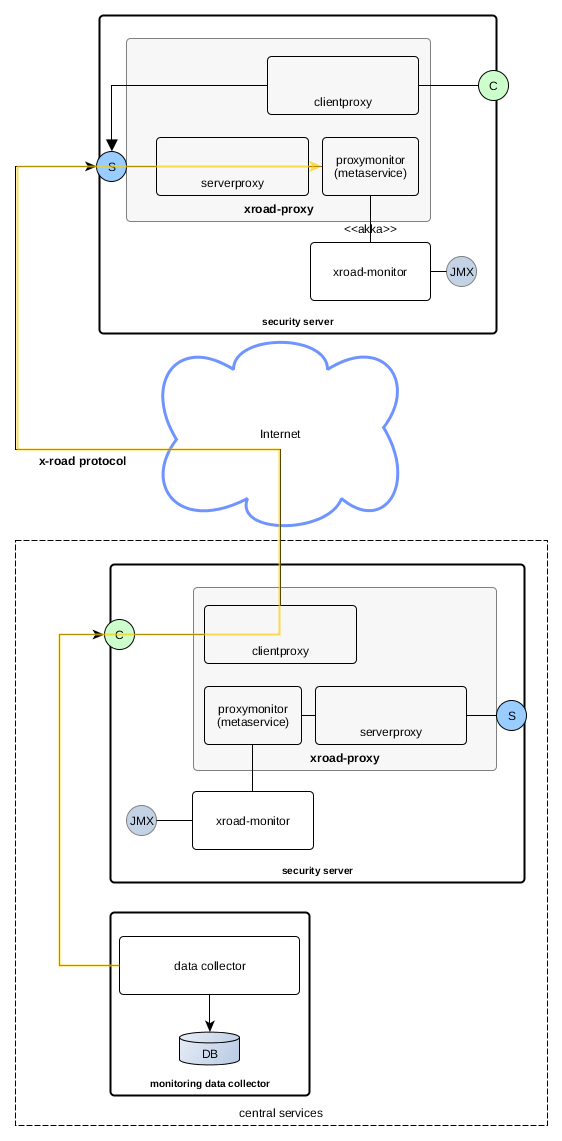
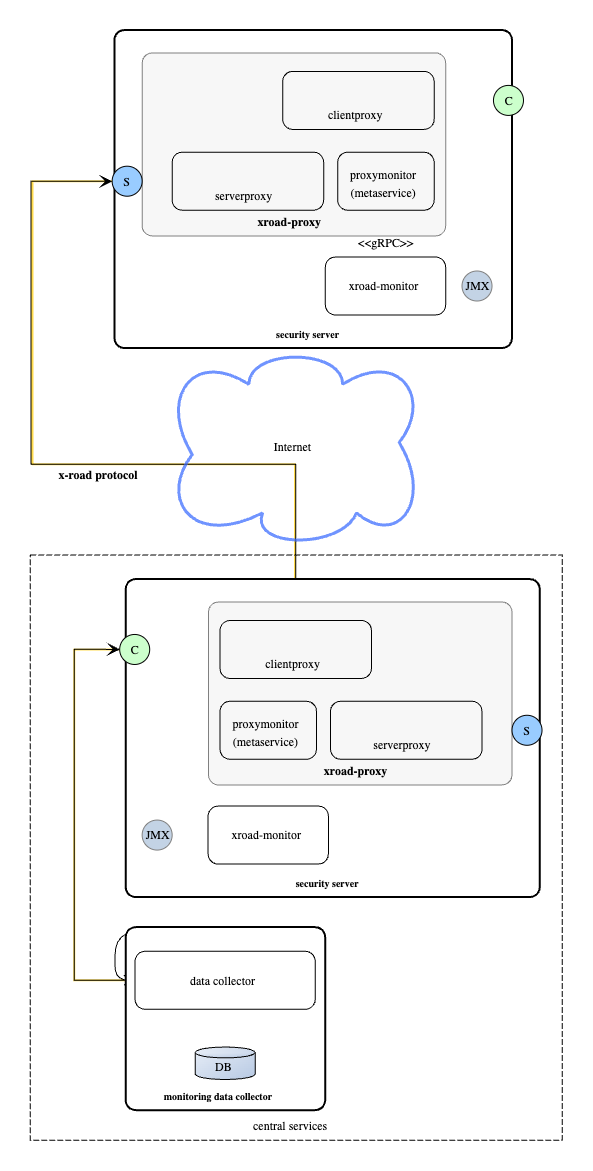
chore: remove akka references from documentation

diff --git a/doc/Architecture/arc-tec_x-road_technologies.md b/doc/Architecture/arc-tec_x-road_technologies.md
@@ -2,7 +2,7 @@
 
 **Technical Specification**
 
-Version: 1.9<br/>
+Version: 1.10
 08.06.2023
 <!-- 3 pages -->
 Doc. ID: ARC-TEC
@@ -11,18 +11,19 @@ Doc. ID: ARC-TEC
 
 ## Version history
 
-| Date       | Version | Description                                            | Author           |
-|------------|---------|--------------------------------------------------------|------------------|
-| 02.02.2018 | 1.0     | Initial version                                        | Antti Luoma      |
-| 02.03.2018 | 1.1     | Added uniform terms and conditions reference           | Tatu Repo        |
-| 17.04.2019 | 1.2     | Added RHEL7, Ubuntu 18.04, systemd and Postgres 10     | Petteri Kivimäki |
-| 11.09.2019 | 1.3     | Remove Ubuntu 14.04 support                            | Jarkko Hyöty     |
-| 12.05.2020 | 1.4     | Add link to X-Road core tech radar                     | Petteri Kivimäki |
-| 15.09.2020 | 1.5     | Updated to match Security Server REST API architecture | Janne Mattila    |
-| 02.06.2021 | 1.6     | Backup encryption related updates                      | Andres Allkivi   |
-| 07.09.2021 | 1.7     | Update technologies                                    | Ilkka Seppälä    |
-| 26.09.2022 | 1.8     | Remove Ubuntu 18.04 support                            | Andres Rosenthal |
-| 08.06.2023 | 1.9     | Central Server technologies update                     | Justas Samuolis  |
+| Date       | Version | Description                                            | Author            |
+|------------|---------|--------------------------------------------------------|-------------------|
+| 02.02.2018 | 1.0     | Initial version                                        | Antti Luoma       |
+| 02.03.2018 | 1.1     | Added uniform terms and conditions reference           | Tatu Repo         |
+| 17.04.2019 | 1.2     | Added RHEL7, Ubuntu 18.04, systemd and Postgres 10     | Petteri Kivimäki  |
+| 11.09.2019 | 1.3     | Remove Ubuntu 14.04 support                            | Jarkko Hyöty      |
+| 12.05.2020 | 1.4     | Add link to X-Road core tech radar                     | Petteri Kivimäki  |
+| 15.09.2020 | 1.5     | Updated to match Security Server REST API architecture | Janne Mattila     |
+| 02.06.2021 | 1.6     | Backup encryption related updates                      | Andres Allkivi    |
+| 07.09.2021 | 1.7     | Update technologies                                    | Ilkka Seppälä     |
+| 26.09.2022 | 1.8     | Remove Ubuntu 18.04 support                            | Andres Rosenthal  |
+| 08.06.2023 | 1.9     | Central Server technologies update                     | Justas Samuolis   |
+| 04.10.2023 | 1.10    | Remove Akka references                                 | Ričardas Bučiūnas |
 
 ## Table of Contents
 
@@ -80,7 +81,7 @@ Table 1. Technology matrix of the X-Road
 | Java 11                            |          X          |         X          |            X            |                 X                 |
 | C                                  |          X          |         X          |                         |                                   |
 | Logback                            |          X          |         X          |            X            |                 X                 |
-| Akka 2                             |          X          |         X          |            X            |                 X                 |
+| gRPC                               |          X          |         X          |            X            |                 X                 |
 | Jetty 9                            |  X\[[3](#Ref_3)\]   |  X\[[4](#Ref_4)\]  |                         |                                   |
 | Ubuntu 20.04                       |          X          |         X          |            X            |                 X                 |
 | Ubuntu 22.04                       |          X          |         X          |            X            |                 X                 |
@@ -128,7 +129,7 @@ Table 2. Technology matrix of the Central Server
 | Java 11                       |     X      |                    |                  X                  |              |                    |      X       |                     |            X             |
 | C                             |            |         X          |                                     |              |                    |              |                     |                          |
 | Logback                       |     X      |                    |                  X                  |              |                    |      X       |                     |            X             |
-| Akka 2                        |     X      |                    |                                     |              |                    |      X       |                     |                          |
+| gRPC                          |     X      |                    |                                     |              |                    |      X       |                     |                          |
 | Embedded Jetty 9              |            |                    |                  X                  |              |                    |              |                     |                          |
 | Embedded Tomcat 9             |            |                    |                                     |              |                    |      X       |                     |                          |
 | Spring Boot 2                 |            |                    |                  X                  |              |                    |      X       |                     |                          |
@@ -164,7 +165,7 @@ Table 3. Technology matrix of the configuration proxy
 |--------------------------|:--------------:|:---------------------------:|:----------:|:------------------------:|
 | Java 11                  |                |              X              |     X      |            X             |
 | Logback                  |                |              X              |     X      |            X             |
-| Akka 2                   |                |              X              |     X      |                          |
+| gRPC                     |                |              X              |     X      |                          |
 | nginx                    |       X        |                             |            |                          |
 | systemd                  |       X        |              X              |     X      |            X             |
 | PKCS \#11\[[2](#Ref_2)\] |                |                             |     X      |                          |
@@ -186,7 +187,7 @@ Table 4. Technology matrix of the Security Server
 | Java 11                      |     X      |     X     |                    |        X        |           X           |              |            X             |                             |      X       |      X      |                  X                   |                 X                 |                  X                  |
 | C                            |            |           |         X          |                 |                       |              |                          |                             |              |             |                                      |                                   |                                     |
 | Logback                      |     X      |     X     |                    |        X        |           X           |              |            X             |                             |      X       |             |                  X                   |                 X                 |                  X                  |
-| Akka 2                       |     X      |     X     |                    |        X        |                       |              |                          |                             |      X       |      X      |                  X                   |                 X                 |                                     |
+| gRPC                         |     X      |     X     |                    |        X        |                       |              |                          |                             |      X       |      X      |                  X                   |                 X                 |                                     |
 | Embedded Jetty 9             |            |     X     |                    |                 |                       |              |                          |                             |              |             |                                      |                                   |                                     |
 | Javascript                   |            |           |                    |                 |                       |              |                          |              X              |              |             |                                      |                                   |                                     |
 | PostgreSQL 9+\[[3](#Ref_3)\] |            |           |                    |                 |                       |      X       |                          |                             |      X       |             |                                      |                                   |                                     |
@@ -224,7 +225,7 @@ Table 5. Technology matrix of the operational monitoring daemon
 |:-----------------------------|:------------------------:|:---------------------:|:--------------------:|:------------------------:|
 | Java 11                      |            X             |           X           |          X           |            X             |
 | Logback                      |            X             |           X           |          X           |            X             |
-| Akka 2                       |            X             |           X           |                      |                          |
+| gRPC                         |            X             |           X           |                      |                          |
 | PostgreSQL 9+\[[1](#Ref_1)\] |            X             |           X           |                      |                          |
 | Liquibase 3                  |            X             |           X           |                      |                          |
 | Dropwizard Metrics 4         |            X             |           X           |                      |                          |

diff --git a/doc/EnvironmentalMonitoring/Monitoring-architecture.md b/doc/EnvironmentalMonitoring/Monitoring-architecture.md
@@ -1,20 +1,21 @@
 # X-Road: Environmental Monitoring Architecture
 
-Version: 1.9  
+Version: 1.10  
 Doc. ID: ARC-ENVMON
 
-| Date       | Version | Description                                                                                                     | Author             |
-|------------|---------|-----------------------------------------------------------------------------------------------------------------|--------------------|
-| 15.12.2015 | 1.0     | Initial version                                                                                                 | Ilkka Seppälä         |
-| 04.01.2017 | 1.1     | Fix documentation links                                                                                         | Ilkka Seppälä         |
-| 20.01.2017 | 1.2     | Added license text, table of contents and version history                                                       | Sami Kallio |
-| 23.2.2017  | 1.3     | Added reference to the Security Server targeting extension and moved the modified X-Road protocol details there | Olli Lindgren |
-| 18.8.2017  | 1.4     | Added details about the security server certificates monitoring data                                            | Olli Lindgren |
-| 18.10.2017 | 1.5     |                                                                                                                 | Joni Laurila |
-| 02.03.2018 | 1.6     | Added numbering, terms document references, removed unnecessary anchors                                         | Tatu Repo
-| 20.01.2020 | 1.7     | Update XroadProcessLister description                                                                           | Jarkko Hyöty
-| 25.06.2020 | 1.8     | Add chapter [2.2.1 JMX interface](#221-jmx-interface)                                                           | Petteri Kivimäki
-| 01.06.2023 | 1.9     | Update references                                                                                               | Petteri Kivimäki |
+| Date       | Version | Description                                                                                                     | Author            |
+|------------|---------|-----------------------------------------------------------------------------------------------------------------|-------------------|
+| 15.12.2015 | 1.0     | Initial version                                                                                                 | Ilkka Seppälä     |
+| 04.01.2017 | 1.1     | Fix documentation links                                                                                         | Ilkka Seppälä     |
+| 20.01.2017 | 1.2     | Added license text, table of contents and version history                                                       | Sami Kallio       |
+| 23.2.2017  | 1.3     | Added reference to the Security Server targeting extension and moved the modified X-Road protocol details there | Olli Lindgren     |
+| 18.8.2017  | 1.4     | Added details about the security server certificates monitoring data                                            | Olli Lindgren     |
+| 18.10.2017 | 1.5     |                                                                                                                 | Joni Laurila      |
+| 02.03.2018 | 1.6     | Added numbering, terms document references, removed unnecessary anchors                                         | Tatu Repo         |
+| 20.01.2020 | 1.7     | Update XroadProcessLister description                                                                           | Jarkko Hyöty      |
+| 25.06.2020 | 1.8     | Add chapter [2.2.1 JMX interface](#221-jmx-interface)                                                           | Petteri Kivimäki  |
+| 01.06.2023 | 1.9     | Update references                                                                                               | Petteri Kivimäki  |
+| 04.10.2023 | 1.10    | Remove Akka references                                                                                          | Ričardas Bučiūnas |
 
 
 # Table of Contents
@@ -73,7 +74,7 @@ See X-Road terms and abbreviations documentation \[[TA-TERMS](#Ref_TERMS)\].
 
 ### 2.1 Monitoring metaservice (proxymonitor add-on)
 
-Monitoring metaservice responds to queries for monitoring data from security server's serverproxy interface. This metaservice requests the current monitoring data from local monitoring service, using [Akka](http://akka.io/). Monitoring metaservice translates the monitoring data to a SOAP XML response.
+Monitoring metaservice responds to queries for monitoring data from security server's serverproxy interface. This metaservice requests the current monitoring data from local monitoring service, using [gRPC](https://grpc.io/). Monitoring metaservice translates the monitoring data to a SOAP XML response.
 
 Monitoring service handles authorization of the requests, see [Access control](#33-access-control). It reads monitoring configuration from distributed global monitoring configuration (see [UC-GCONF, PR-GCONF](#12-references)).
 
@@ -81,7 +82,7 @@ Monitoring metaservice is installed as a proxy add-on, with name `xroad-addon-pr
 
 ### 2.2 Monitoring service (xroad-monitor)
 
-Monitoring service is responsible for collecting the monitoring data from one security server instance. It distributes the collected data to monitoring clients (normally the local monitoring metaservice) when requested through an Akka interface.
+Monitoring service is responsible for collecting the monitoring data from one security server instance. It distributes the collected data to monitoring clients (normally the local monitoring metaservice) when requested through an gRPC interface.
 
 Monitoring service uses several _sensors_ to collect the data. Sensors and related functionalities are build on top of [Dropwizard Metrics](https://github.com/dropwizard/metrics).
 

diff --git a/doc/Manuals/ug-syspar_x-road_v6_system_parameters.md b/doc/Manuals/ug-syspar_x-road_v6_system_parameters.md
@@ -1,6 +1,6 @@
 # X-Road: System Parameters User Guide
 
-Version: 2.77
+Version: 2.78
 Doc. ID: UG-SYSPAR
 
 
@@ -88,6 +88,7 @@ Doc. ID: UG-SYSPAR
 | 13.06.2023 | 2.75    | Added new *complementary-user-role-mappings* parameters                                                                                                                                                                                                                                                                                                                                                        | Andres Rosenthal           |
 | 24.08.2023 | 2.76    | Added new *server-min-supported-client-version* parameter                                                                                                                                                                                                                                                                                                                                                      | Eneli Reimets              |
 | 02.10.2023 | 2.77    | Remove the separate section about changing the global configuration interval on the Central Server.                                                                                                                                                                                                                                                                                                            | Petteri Kivimäki           |
+| 02.10.2023 | 2.78    | Remove Akka references                                                                                                                                                                                                                                                                                                                                                                                         | Ričardas Bučiūnas          |
 
 ## Table of Contents
 
@@ -222,11 +223,10 @@ This chapter describes the system parameters used by the components of the X-Roa
 
 ### 3.1 Common parameters : `[common]`
 
-| **Parameter**                                    | **Default value**                          | **Description**   |
-|--------------------------------------------------|--------------------------------------------|------------------ |
-| configuration-path                               | /etc/xroad/globalconf/                     | Absolute path to the directory where global configuration is stored.|
-| temp-files-path                                  | /var/tmp/xroad/                            | Absolute path to the directory where temporary files are stored. |
-| akka-use-secure-remote-transport                 | true                                       | Should Akka remoting use TLS (true) or not (false). The keypair used is ephemeral and recreated after boot. |
+| **Parameter**      | **Default value**      | **Description**                                                      |
+|--------------------|------------------------|----------------------------------------------------------------------|
+| configuration-path | /etc/xroad/globalconf/ | Absolute path to the directory where global configuration is stored. |
+| temp-files-path    | /var/tmp/xroad/        | Absolute path to the directory where temporary files are stored.     |
 
 ### 3.2 Proxy parameters: `[proxy]`
 

diff --git a/doc/Architecture/arc-ss_x-road_security_server_architecture.md b/doc/Architecture/arc-ss_x-road_security_server_architecture.md
@@ -2,7 +2,7 @@
 
 **Technical Specification** <!-- omit in toc -->
 
-Version: 1.15 
+Version: 1.16
 01.06.2023
 <!-- 15 pages -->
 Doc. ID: ARC-SS
@@ -35,6 +35,7 @@ Doc. ID: ARC-SS
 | 03.05.2022 | 1.13    | Update `xroad-addon-messagelog` process section                                                      | Petteri Kivimäki   |
 | 01.06.2023 | 1.14    | Update references                                                                                    | Petteri Kivimäki   |
 | 20.06.2023 | 1.15    | Fixed Security Server Admin API OpenAPI specification link                                           | Madis Loitmaa      |
+| 03.10.2023 | 1.16    | Remove Akka references                                                                               | Ričardas Bučiūnas  |
 
 ## Table of Contents <!-- omit in toc -->
 
@@ -332,13 +333,13 @@ The SSCD needs to be a PKCS \#11 (see \[[PKCS11](#Ref_PKCS11)\]) compliant hardw
 
 ### 2.13 Environmental Monitoring Service
 
-Provides methods that can be used by X-Road participants to get environmental data of the security server. It requests the data from the local monitoring service via Akka interface and translates it to a SOAP XML response.
+Provides methods that can be used by X-Road participants to get environmental data of the security server. It requests the data from the local monitoring service via gRPC interface and translates it to a SOAP XML response.
 
 The component is a proxy addon.
 
 ### 2.14 Monitor
 
-Monitor component collects environmental monitoring information such as running processes, available disk space, installed packages etc. The monitoring data is published via Akka and (optional) JMX interfaces.
+Monitor component collects environmental monitoring information such as running processes, available disk space, installed packages etc. The monitoring data is published via gRPC and (optional) JMX interfaces.
 
 The component is a separate daemon process.
 
